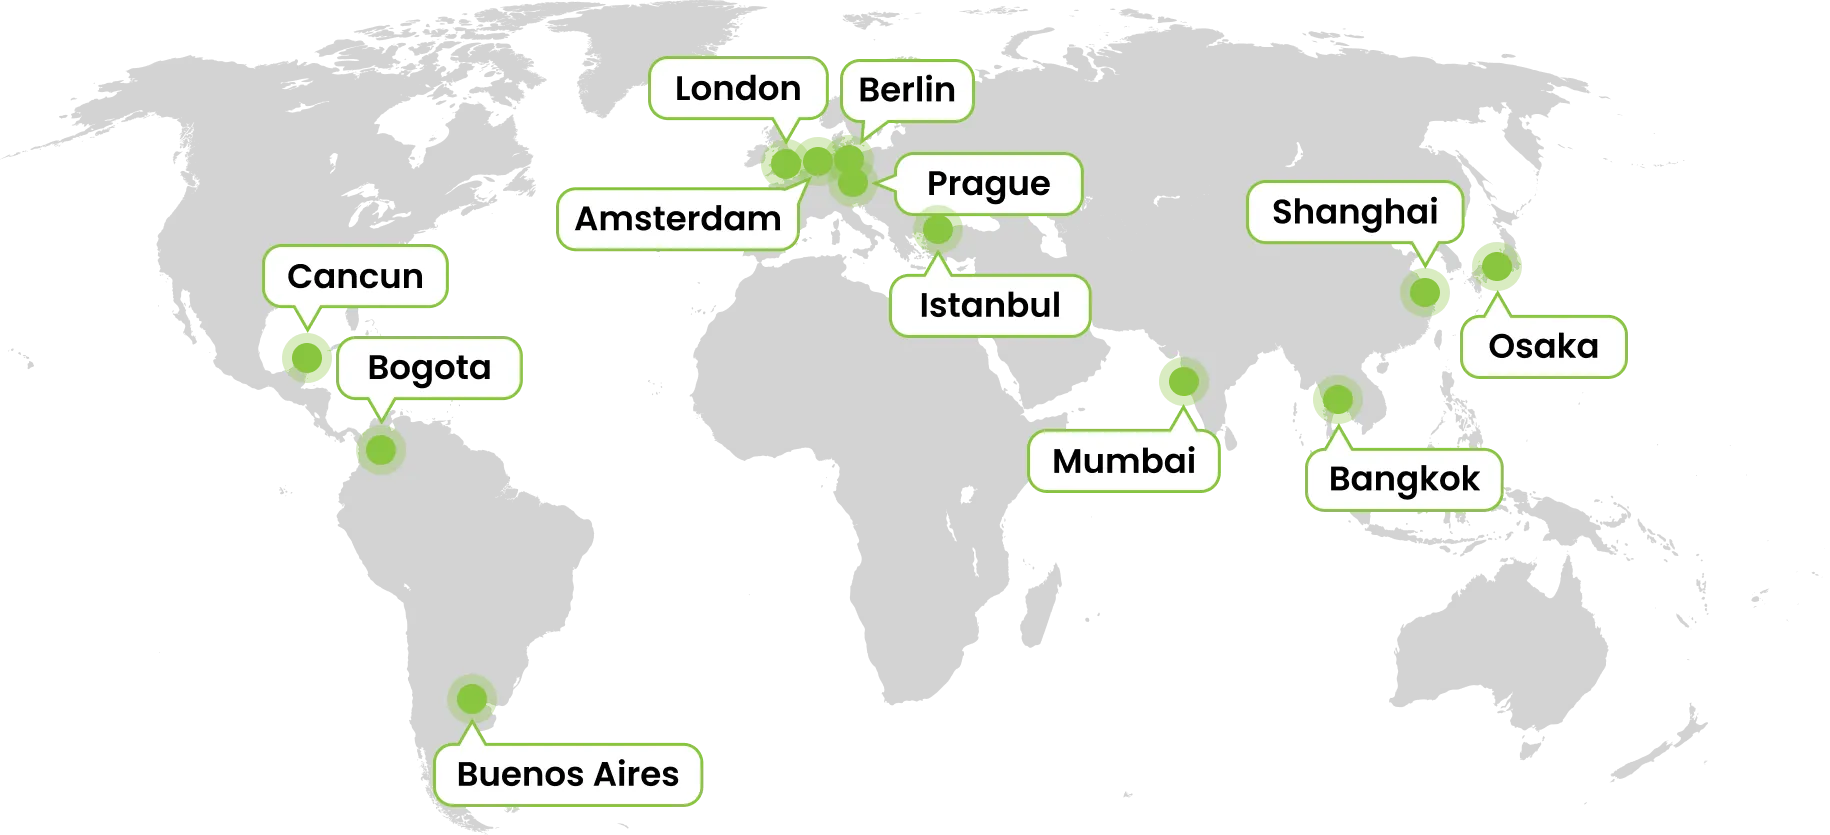
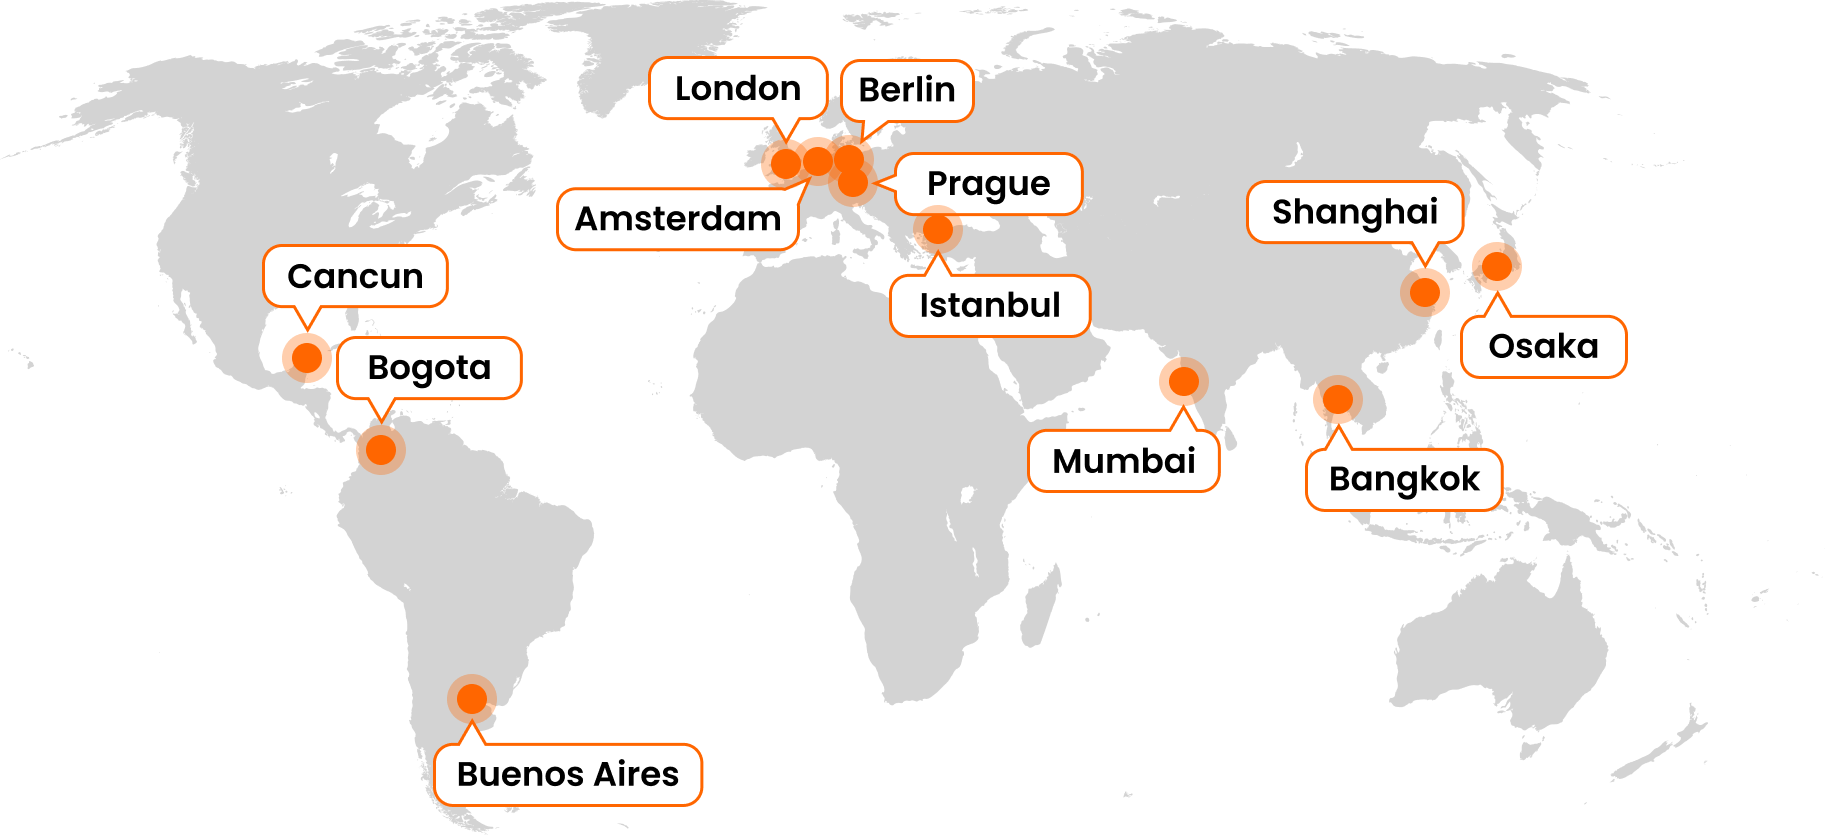
past events updated, restyle cms content

diff --git a/devcon/src/pages/past-events.tsx b/devcon/src/pages/past-events.tsx
@@ -2,13 +2,13 @@ import React from 'react'
 import Page from 'components/common/layouts/page'
 import { PageHero } from 'components/common/page-hero'
 import themes from './themes.module.scss'
-import { Tags } from 'components/common/tags'
 import css from './past-events.module.scss'
+import heroCss from './tickets/tickets-landing.module.scss'
 import { Link } from 'components/common/link'
 import Image from 'next/image'
 import EventLocations from 'assets/images/past-events.webp'
-import { Button } from 'lib/components/button'
-import HeroBackground from 'assets/images/pages/hero-bgs/about.jpg'
+import { ArrowUpRight } from 'lucide-react'
+import HeroBackground from './past-events-hero.png'
 import { useTina } from 'tinacms/dist/react'
 import { client } from '../../tina/__generated__/client'
 import { PagesPast_Events, PagesQuery } from '../../tina/__generated__/types'
@@ -22,11 +22,13 @@ export default function PastEvents(props: any) {
   const events = pages.events || []
 
   return (
-    <Page theme={themes['about']}>
+    <Page theme={themes['tickets']} withHero darkFooter>
       <PageHero
+        className={`${heroCss['hero-no-side-gradient']} ${css['hero-overlay']} !mb-0`}
+        titleClassName={heroCss['hero-title']}
         heroBackground={HeroBackground}
-        path={[{ text: <span className="bold">About</span> }, { text: 'Past Events' }]}
-        title="Past Events"
+        path={[]}
+        title="Past events"
         navigation={events.map((event: any) => {
           return {
             title: event.title,
@@ -35,10 +37,14 @@ export default function PastEvents(props: any) {
         })}
       />
 
-      <div className="section">
+      <div className={`section ${css['content-area']}`} style={{ paddingTop: '2rem' }}>
         <div className={`two-columns ${css['about']} clear-bottom border-bottom margin-bottom relative`}>
           <div className={`left ${css['left']}`}>
             <RichText content={pages.section1?.about} />
+            <Link to="https://archive.devcon.org" className={css['btn-archive']}>
+              Devcon Archive
+              <ArrowUpRight size={16} strokeWidth={2} />
+            </Link>
           </div>
           <div className={`right ${css['right']}`}>
             <h2 className="spaced">Past Locations</h2>
@@ -86,18 +92,31 @@ export default function PastEvents(props: any) {
                   <h2 className="my-4">{event.title}</h2>
                   <RichText content={event.description} />
                   <div className="flex gap-3 mt-5">
-                    <Link key={event.button_link} to={event.button_link}>
-                      <Button color="green-1" fat fill onClick={(e: React.SyntheticEvent) => e.stopPropagation()}>
-                        {event.button}
-                      </Button>
-                    </Link>
-                    {event.button2 && event.button2_link && (
-                      <Link key={event.button2_link} to={event.button2_link}>
-                        <Button color="green-1" fat fill onClick={(e: React.SyntheticEvent) => e.stopPropagation()}>
-                          {event.button2}
-                        </Button>
-                      </Link>
-                    )}
+                    {(() => {
+                      const buttons = [
+                        { text: event.button, link: event.button_link },
+                        event.button2 && event.button2_link ? { text: event.button2, link: event.button2_link } : null,
+                      ].filter(Boolean) as { text: string; link: string }[]
+
+                      // Put "Watch" first if it exists
+                      buttons.sort((a, b) => {
+                        const aIsWatch = a.text.toLowerCase() === 'watch'
+                        const bIsWatch = b.text.toLowerCase() === 'watch'
+                        if (aIsWatch && !bIsWatch) return -1
+                        if (!aIsWatch && bIsWatch) return 1
+                        return 0
+                      })
+
+                      return buttons.map(btn => {
+                        const isWatch = btn.text.toLowerCase() === 'watch'
+                        return (
+                          <Link key={btn.link} to={btn.link} className={isWatch ? css['btn-watch'] : css['btn-learn-more']}>
+                            {btn.text}
+                            <ArrowUpRight size={16} strokeWidth={2} />
+                          </Link>
+                        )
+                      })
+                    })()}
                   </div>
                 </div>
               </div>

diff --git a/devcon/src/pages/past-events.module.scss b/devcon/src/pages/past-events.module.scss
@@ -1,5 +1,108 @@
 @use 'assets/css/partials/index' as *;
 
+/* ─── Hero overlay (15% #221144 tint for text contrast) ───── */
+
+.hero-overlay {
+  [class*='background-image']::after {
+    content: '';
+    position: absolute;
+    inset: 0;
+    background: rgba(34, 17, 68, 0.15);
+    pointer-events: none;
+    z-index: 1;
+  }
+}
+
+/* ─── Event buttons ────────────────────────────────────────── */
+
+.btn-watch {
+  display: inline-flex;
+  align-items: center;
+  gap: 4px;
+  padding: 8px 16px;
+  height: 40px;
+  font-size: 14px;
+  font-weight: 700;
+  color: #f9f8fa;
+  background: #7235ed;
+  border: none;
+  border-radius: 9999px;
+  cursor: pointer;
+  text-decoration: none;
+  white-space: nowrap;
+  transition: opacity 0.15s;
+
+  &:hover {
+    opacity: 0.9;
+  }
+
+  svg {
+    flex-shrink: 0;
+  }
+}
+
+.btn-learn-more {
+  display: inline-flex;
+  align-items: center;
+  gap: 4px;
+  padding: 8px 16px;
+  padding-right: 12px;
+  height: 40px;
+  font-size: 14px;
+  font-weight: 700;
+  color: #1a0d33;
+  background: rgba(255, 255, 255, 0.8);
+  border: 1px solid rgba(34, 17, 68, 0.1);
+  border-radius: 9999px;
+  cursor: pointer;
+  text-decoration: none;
+  white-space: nowrap;
+  transition: background 0.15s;
+
+  &:hover {
+    background: rgba(255, 255, 255, 1);
+  }
+
+  svg {
+    flex-shrink: 0;
+  }
+}
+
+.btn-archive {
+  display: inline-flex;
+  align-self: flex-start;
+  align-items: center;
+  gap: 8px;
+  height: 48px;
+  padding: 0 32px;
+  font-size: 16px;
+  font-weight: 700;
+  line-height: 1;
+  color: #f9f8fa;
+  background: #7235ed;
+  border: none;
+  border-radius: 9999px;
+  cursor: pointer;
+  text-decoration: none;
+  white-space: nowrap;
+  transition: opacity 0.15s;
+  margin-top: 1rem;
+
+  &:hover {
+    opacity: 0.9;
+  }
+
+  svg {
+    flex-shrink: 0;
+  }
+}
+
+.content-area {
+  h2 {
+    font-weight: 800 !important;
+  }
+}
+
 .edition {
   display: flex;
   align-items: center;
@@ -18,6 +121,10 @@
 
   .left {
     flex-basis: 40%;
+
+    img {
+      border-radius: 16px;
+    }
   }
 
   .right {
@@ -43,12 +150,12 @@
 }
 
 .scrolling-text {
-  --custom-fade-color: #bde48a !important;
-  --custom-text-color: #719355;
-  color: #719355;
+  --custom-fade-color: #FFC299 !important;
+  --custom-text-color: #221144;
+  color: #221144;
 
   &:before {
-    background: #bde48a !important;
+    background: #FFC299 !important;
   }
 }
 

diff --git a/lib/components/tina-cms/rich-text.module.scss b/lib/components/tina-cms/rich-text.module.scss
@@ -1,7 +1,7 @@
 .rich-text {
   b,
   strong {
-    font-weight: 600;
+    font-weight: 800;
   }
 
   h1,
